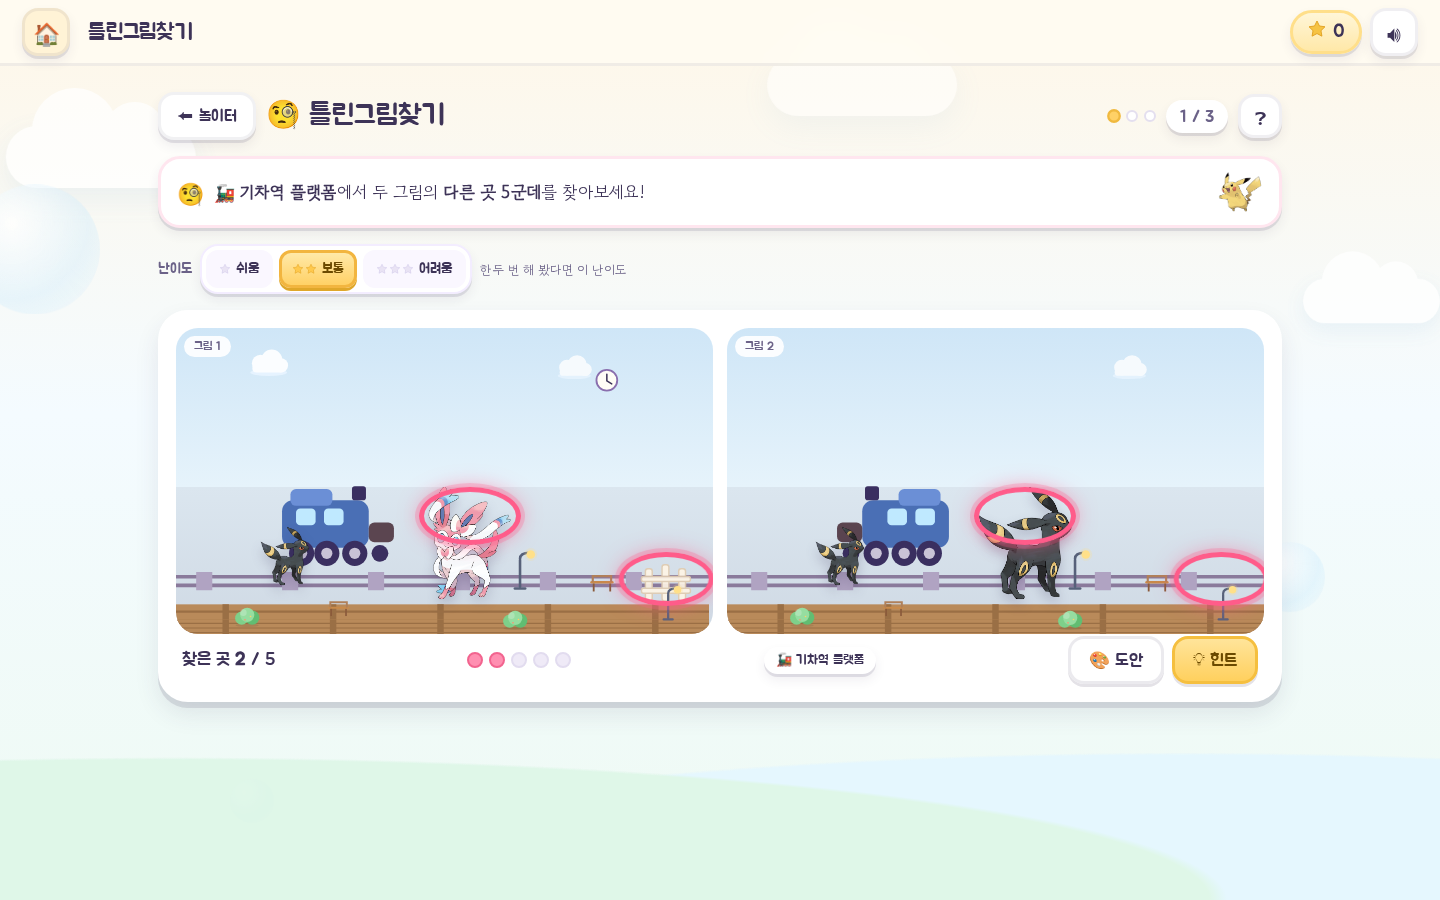
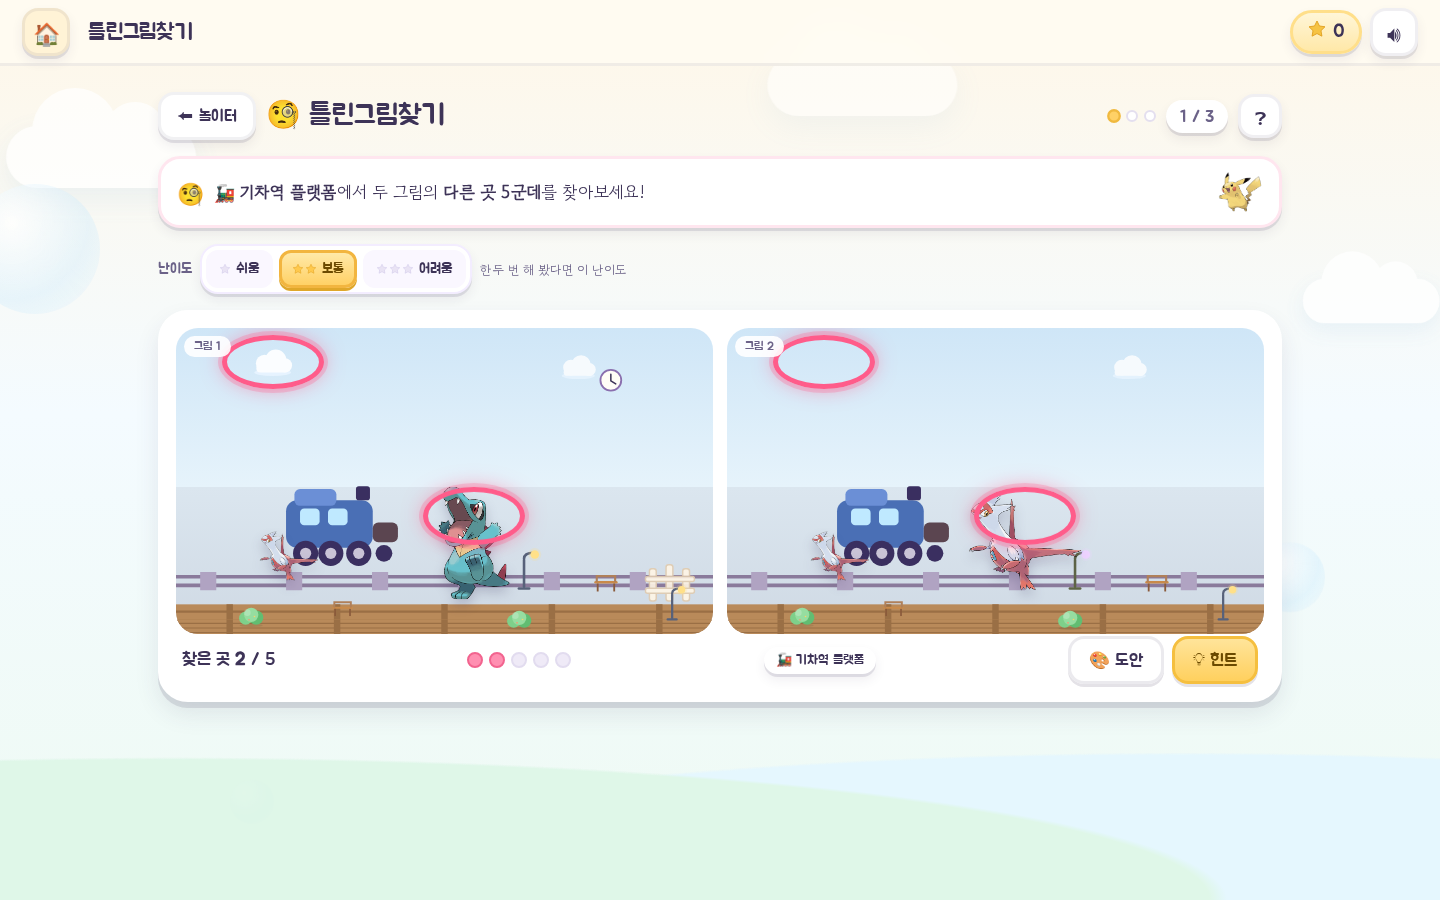
🎯 틀린그림찾기 차이 배치 개선 — 도안마다 겹침 없이 3/5/7곳 보장
- 장면을 12칸으로 나눠 한 칸에 차이 하나씩 배치 (핫스팟 겹침 제거)
- 색·반전이 티나지 않는 소품은 해당 변화에서 제외
- 도안 32종 모두 어려움 7곳 확보, 픽셀 차이 검증
- 화산·사막·야경 등 일부 도안 소품 보강, 스크린샷 갱신

diff --git a/js/games/diff.js b/js/games/diff.js
@@ -1,13 +1,13 @@
 /* ==========================================================
    2. 틀린그림찾기 — 32가지 도안에서 다른 곳 찾기 (쉬움/보통/어려움)
    ========================================================== */
-import { byId, DEX, pick, pickMany } from '../data.js';
+import { byId, DEX, pick, pickMany, shuffle } from '../data.js';
 import { qs, qsa, save } from '../core.js';
 import { THEMES, decor, sceneFrontHTML, nextTheme, themeInfo } from './scene.js';
 
 const CFG = {
   easy: { n: 3, minW: 12, muts: ['gone', 'swap', 'hue'] },
-  normal: { n: 5, minW: 8, muts: ['gone', 'swap', 'hue', 'big', 'flip'] },
+  normal: { n: 5, minW: 8, muts: ['gone', 'swap', 'hue', 'big'] },
   hard: { n: 7, minW: 5, muts: ['gone', 'swap', 'hue', 'big', 'flip', 'rot'] },
 };
 const ROUNDS = 3;
@@ -19,7 +19,7 @@ const SYMMETRIC = new Set([
   'rails', 'bandSand', 'bandSnow', 'bandGrass', 'bandLava', 'bandWaves', 'bandPath',
   'bandDeck', 'bandTile', 'bandCave', 'bandStone', 'bandCloud', 'bandDarkGrass',
   'bamboo', 'arch', 'pyramid', 'tank', 'glassPane', 'pond', 'dune', 'hill', 'hill2',
-  'table', 'window', 'bench', 'pillar', 'stairs',
+  'table', 'window', 'bench', 'pillar', 'stairs', 'fence', 'bush', 'bat', 'pine', 'lantern',
 ]);
 
 /* 색이 거의 없어 hue 회전이 티나지 않는 소품 */
@@ -28,7 +28,7 @@ const NEUTRAL = new Set([
   'fence', 'rail', 'clock', 'gem', 'crystal', 'iceberg', 'igloo', 'snowman', 'sheep', 'hay',
   'dune', 'tank', 'glassPane', 'window', 'lighthouse', 'cityTower', 'train', 'bookshelf', 'tower',
   'moon', 'sun', 'snowman', 'igloo', 'iceberg', 'sheep', 'snowPine', 'hay', 'star', 'sparkle',
-  'bubble', 'planet', 'bamboo', 'stairs',
+  'bubble', 'planet', 'bamboo', 'stairs', 'vine',
 ]);
 
 /* 배경 판이라 '차이'로 쓰기엔 티가 안 나는 요소 */
@@ -37,7 +37,8 @@ const BACKGROUND = new Set(['hill', 'hill2', 'dune', 'aurora', 'pond', 'waves', 
   'bandCloud', 'bandDarkGrass']);
 /* 크기를 키워도 티가 잘 안 나는 요소 */
 const NO_BIG = new Set(['cloud', 'moon', 'sun', 'star', 'sparkle', 'bubble', 'snowman', 'igloo',
-  'iceberg', 'hay', 'snowPine', 'sheep']);
+  'iceberg', 'hay', 'snowPine', 'sheep', 'pillar', 'arch', 'table', 'bench', 'fence', 'streetlamp',
+  'log', 'stump', 'rail', 'clock']);
 
 const POKE_SLOTS = [
   { x: 44, y: 50, w: 23, h: 23 },
@@ -103,61 +104,66 @@ export default {
       return themeKey;
     }
 
+    function pickKind(it) {
+      let kinds = D.muts.filter((k) => k !== 'swap'
+        && !(SYMMETRIC.has(it.t) && (k === 'flip' || k === 'rot'))
+        && !(k === 'hue' && NEUTRAL.has(it.t))
+        && !(k === 'big' && NO_BIG.has(it.t)));
+      if (!kinds.length) kinds = ['gone'];
+      return pick(kinds);
+    }
+
     function buildRound() {
       const theme = themeInfo(themeKey);
-      const base = theme.items.filter((i) => !isBand(i) && !BACKGROUND.has(i.t) && i.w >= D.minW && i.h >= D.minW * 0.7 && (i.o == null || i.o > 0.6));
-      // 난이도에 따라 크기가 큰 소품 ~ 작은 소품 고르기
-      const sorted = base.slice().sort((a, b) => b.w * b.h - a.w * a.h);
-      let pool;
-      if (ctx.difficulty === 'easy') pool = sorted.slice(0, Math.max(10, D.n * 3));
-      else if (ctx.difficulty === 'hard') pool = sorted.slice(Math.floor(sorted.length / 3));
-      else pool = sorted.slice(0, Math.max(14, Math.floor(sorted.length * 0.75)));
+      const base = theme.items.filter((i) => !isBand(i) && !BACKGROUND.has(i.t)
+        && i.w >= D.minW && i.h >= D.minW * 0.7 && (i.o == null || i.o > 0.6));
 
       const pokes = pickMany(DEX.filter((p) => p.h >= 0.6 && p.h <= 1.9), 2);
       const pokeItems = POKE_SLOTS.map((s, i) => ({
         t: 'poke', x: s.x, y: s.y, w: s.w, h: s.h, id: pokes[i].id, n: pokes[i].n,
       }));
 
-      const chosen = [];
-      const wantN = D.n;
-      // 1) 포켓몬 차이 하나는 꼭 넣기
-      chosen.push({ item: pokeItems[0], kind: 'swap', alt: pokes[1].id });
-
-      // 2) 나머지 소품 차이
-      const shuffled = pickMany(pool, pool.length);
-      for (const it of shuffled) {
-        if (chosen.length >= wantN) break;
-        const c = center(it);
-        const farEnough = chosen.every((ch) => {
-          const cc = center(ch.item);
-          return Math.abs(cc.x - c.x) > 19 || Math.abs(cc.top - c.top) > 18;
-        });
-        if (!farEnough) continue;
-        let kinds = D.muts.filter((k) => k !== 'swap');
-        if (SYMMETRIC.has(it.t)) kinds = kinds.filter((k) => k !== 'flip' && k !== 'rot');
-        if (NEUTRAL.has(it.t)) kinds = kinds.filter((k) => k !== 'hue');
-        if (NO_BIG.has(it.t)) kinds = kinds.filter((k) => k !== 'big');
-        if (!kinds.length) kinds = ['gone'];
-        const kind = pick(kinds);
-        chosen.push({ item: it, kind });
+      /* 장면을 8칸으로 나눠 한 칸에 차이 하나씩 → 서로 겹치지 않고 골고루 */
+      const zones = [];
+      for (let r = 0; r < 3; r++) {
+        for (let c = 0; c < 4; c++) {
+          zones.push({ x0: c * 25, x1: (c + 1) * 25, y0: r * 33.34, y1: (r + 1) * 33.34 });
+        }
       }
-      // 3) 자리가 모자라면 조금 덜 떨어진 후보까지 (겹치지 않을 만큼만)
-      if (chosen.length < wantN) {
-        for (const it of shuffled) {
-          if (chosen.length >= wantN) break;
-          if (chosen.some((c) => c.item === it)) continue;
+      const used = new Set();
+      const chosen = [{ item: pokeItems[0], kind: 'swap', alt: pokes[1].id }];
+      const pc = center(pokeItems[0]);
+      const freeZones = shuffle(zones.filter((z) => !(pc.x >= z.x0 && pc.x < z.x1 && pc.top >= z.y0 && pc.top < z.y1)));
+
+      for (const z of freeZones) {
+        if (chosen.length >= D.n) break;
+        const cands = base.filter((it) => {
+          if (used.has(it)) return false;
           const c = center(it);
-          const ok2 = chosen.every((ch) => {
+          return c.x >= z.x0 && c.x < z.x1 && c.top >= z.y0 && c.top < z.y1;
+        });
+        if (!cands.length) continue;
+        let list = cands;
+        if (ctx.difficulty === 'easy') list = cands.slice().sort((a, b) => b.w * b.h - a.w * a.h).slice(0, 2);
+        if (ctx.difficulty === 'hard') list = cands.slice().sort((a, b) => a.w * a.h - b.w * b.h).slice(0, 3);
+        const it = pick(list);
+        used.add(it);
+        chosen.push({ item: it, kind: pickKind(it) });
+      }
+
+      // 칸이 모자라면 남은 후보로 (겹치지 않을 만큼만)
+      if (chosen.length < D.n) {
+        for (const it of shuffle(base)) {
+          if (chosen.length >= D.n) break;
+          if (used.has(it)) continue;
+          const c = center(it);
+          const ok = chosen.every((ch) => {
             const cc = center(ch.item);
             return Math.abs(cc.x - c.x) > 11 || Math.abs(cc.top - c.top) > 11;
           });
-          if (!ok2) continue;
-          let kinds = D.muts.filter((k) => k !== 'swap'
-            && !(SYMMETRIC.has(it.t) && (k === 'flip' || k === 'rot'))
-            && !(k === 'hue' && NEUTRAL.has(it.t))
-            && !(k === 'big' && NO_BIG.has(it.t)));
-          if (!kinds.length) kinds = ['gone'];
-          chosen.push({ item: it, kind: pick(kinds) });
+          if (!ok) continue;
+          used.add(it);
+          chosen.push({ item: it, kind: pickKind(it) });
         }
       }
       return { theme, pokeItems, chosen };

diff --git a/js/games/scene.js b/js/games/scene.js
@@ -917,6 +917,8 @@ export const THEMES = {
       { t: 'cactus', x: 66, b: 10, w: 8, h: 14 },
       { t: 'rock', x: 56, b: 10, w: 8, h: 8 },
       { t: 'pond', x: 42, b: 6, w: 20, h: 8, o: .85 },
+      { t: 'cactus', x: 46, b: 18, w: 9, h: 15 },
+      { t: 'rock', x: 24, b: 24, w: 8, h: 8 },
       { t: 'bandSand', h: 12 },
     ],
     front: [
@@ -938,6 +940,14 @@ export const THEMES = {
       { t: 'rock', x: 84, b: 10, w: 12, h: 12 },
       { t: 'rock', x: 66, b: 8, w: 8, h: 8 },
       { t: 'bandLava', h: 16 },
+      { t: 'crystal', x: 12, b: 14, w: 7, h: 10 },
+      { t: 'rock', x: 30, b: 12, w: 9, h: 9 },
+      { t: 'cloud', x: 66, y: 6, w: 20, h: 10, o: .35 },
+      { t: 'crystal', x: 88, b: 12, w: 6, h: 9 },
+      { t: 'cloud', x: 4, y: 22, w: 16, h: 8, o: .3 },
+      { t: 'cloud', x: 70, y: 18, w: 18, h: 9, o: .8 },
+      { t: 'rock', x: 24, y: 24, w: 7, h: 7, o: .92 },
+      { t: 'rock', x: 50, b: 30, w: 8, h: 8 },
     ],
     front: [
       { t: 'bandLava', h: 8 },
@@ -981,6 +991,9 @@ export const THEMES = {
       { t: 'bush', x: 8, b: 14, w: 12, h: 12 },
       { t: 'bush', x: 78, b: 12, w: 14, h: 13 },
       { t: 'bandPath', h: 16 },
+      { t: 'tree', x: -4, b: 14, w: 14, h: 28 },
+      { t: 'fence', x: 26, b: 12, w: 20, h: 12, o: .9 },
+      { t: 'flower', x: 60, b: 12, w: 6, h: 9, c: '#ffb3cd' },
     ],
     front: [
       { t: 'flower', x: 6, b: 3, w: 6, h: 9, c: '#ffb3cd' },
@@ -1277,6 +1290,9 @@ export const THEMES = {
       { t: 'table', x: 48, b: 12, w: 26, h: 16 },
       { t: 'bench', x: 62, b: 14, w: 12, h: 9 },
       { t: 'bandTile', h: 14 },
+      { t: 'bookshelf', x: 22, b: 12, w: 14, h: 30 },
+      { t: 'window', x: 60, y: 8, w: 14, h: 18, o: .95 },
+      { t: 'table', x: 8, b: 12, w: 16, h: 12 },
     ],
     front: [
       { t: 'bandTile', h: 7 },
@@ -1301,6 +1317,9 @@ export const THEMES = {
       { t: 'cake', x: 76, b: 14, w: 12, h: 15 },
       { t: 'lantern', x: 90, y: 20, w: 6, h: 9 },
       { t: 'bandTile', h: 14 },
+      { t: 'cupcake', x: 22, b: 14, w: 8, h: 11 },
+      { t: 'cake', x: 62, b: 14, w: 10, h: 13 },
+      { t: 'table', x: 74, b: 12, w: 18, h: 12 },
     ],
     front: [
       { t: 'bandTile', h: 7 },
@@ -1346,6 +1365,9 @@ export const THEMES = {
       { t: 'fish', x: 20, b: 8, w: 10, h: 6, o: .8, f: true },
       { t: 'coral', x: 4, b: 6, w: 12, h: 14, o: .85 },
       { t: 'island', x: 76, b: 14, w: 22, h: 14, o: .9 },
+      { t: 'fish', x: 44, b: 10, w: 10, h: 6, o: .85 },
+      { t: 'bubble', x: 70, b: 20, w: 4, h: 4 },
+      { t: 'coral', x: 88, b: 8, w: 10, h: 12, o: .9 },
     ],
     front: [
       { t: 'waves', x: 0, b: 0, w: 100, h: 10 },
@@ -1513,6 +1535,7 @@ export const THEMES = {
       { t: 'star', x: 62, y: 6, w: 3, h: 3, o: .75 },
       { t: 'cityTower', x: 0, b: 18, w: 22, h: 34 },
       { t: 'cityTower', x: 76, b: 16, w: 24, h: 40 },
+      { t: 'cityTower', x: 30, b: 34, w: 18, h: 30, o: .85 },
       { t: 'streetlamp', x: 30, b: 14, w: 8, h: 24 },
       { t: 'streetlamp', x: 60, b: 14, w: 8, h: 22 },
       { t: 'bench', x: 42, b: 14, w: 16, h: 11 },
